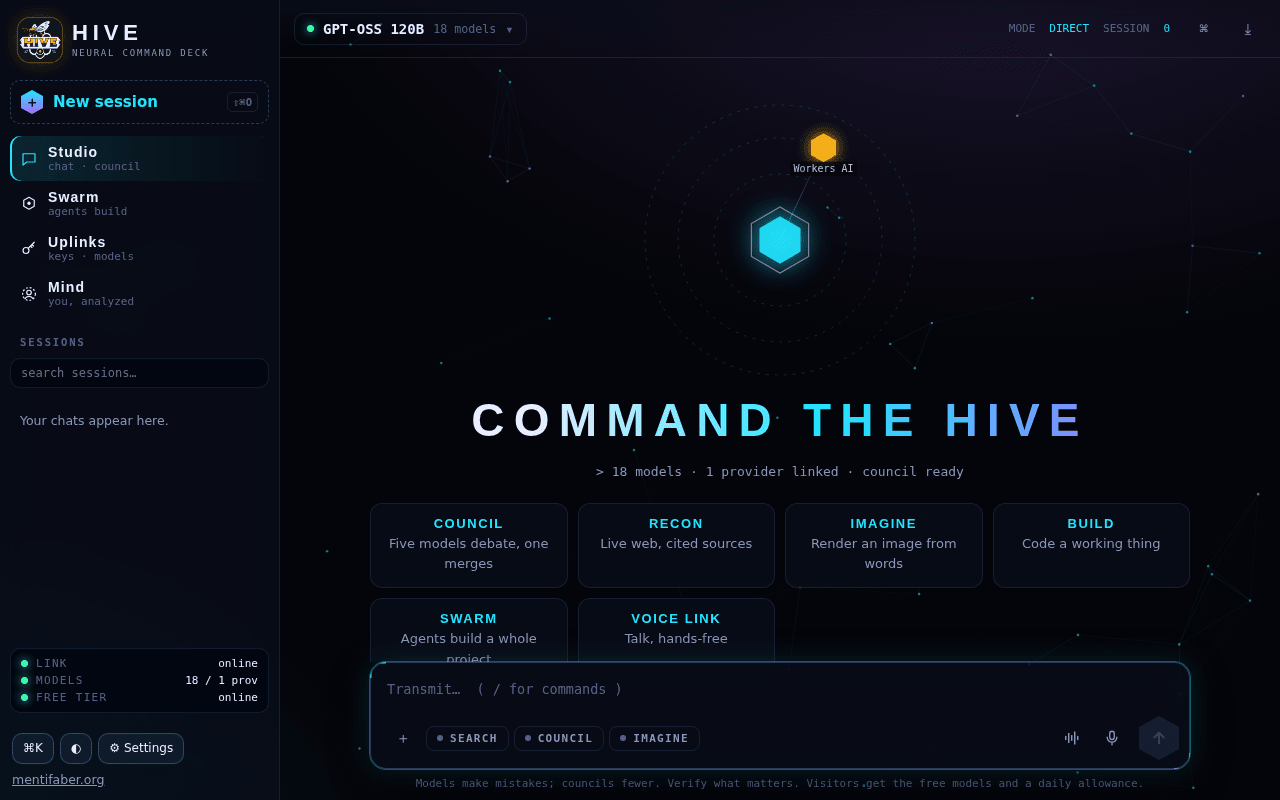
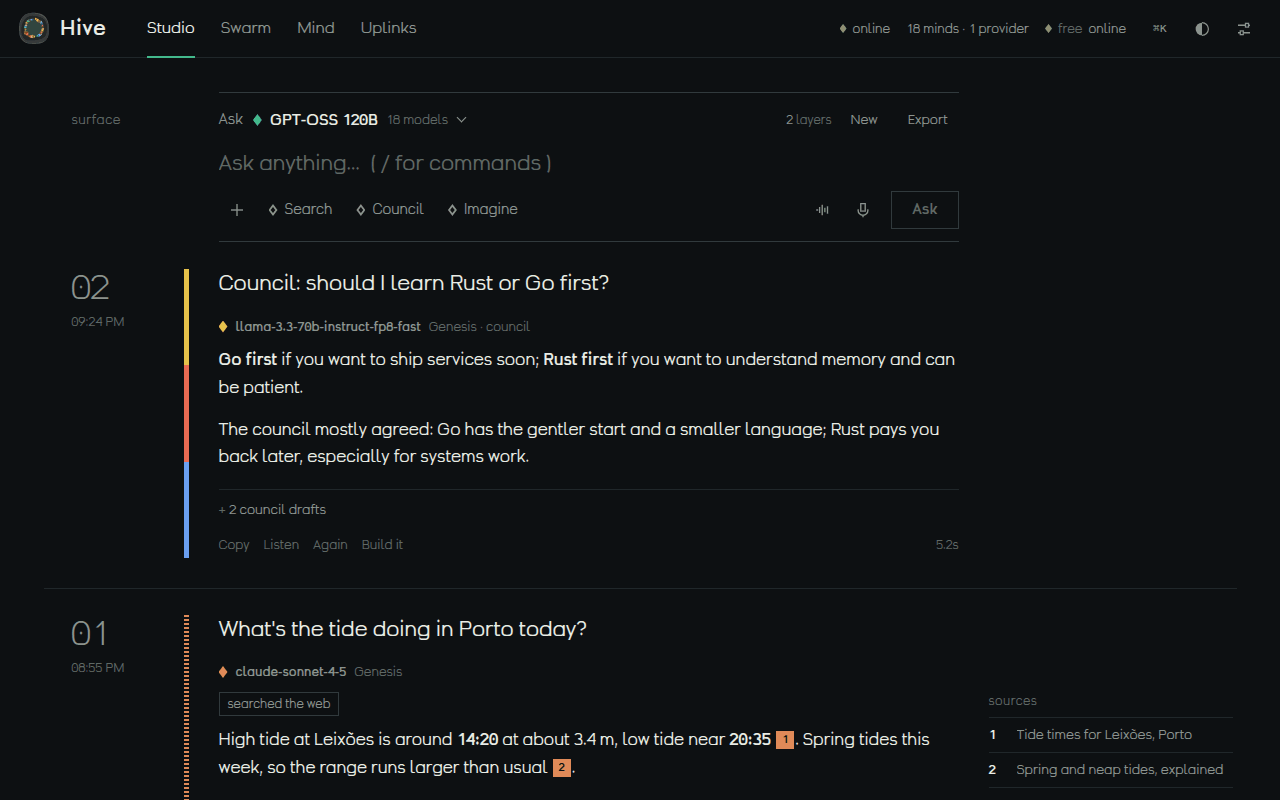
Hive audit: Genesis knows what changed, names match the screens, picker ranks names first
- Genesis's changelog had stopped at Oct 14: it now knows about the redesign, the Mind upgrade, the swarm and integrator
  fixes, Agent 1.0 always on, the voice fallback and pronunciation, and the logo, so it won't re-propose them (and new
  ideas on interface themes, colour schemes, rate-limit fallbacks or pronunciation are settled)
- Server messages said "Keys"; the screen is Uplinks
- The model picker put a model whose id merely contained the word ahead of the one named for it ("gemma" picked
  SEA-LION); names now come first
- Hive's site page: new copy (no "command deck") and a preview taken from the app as it is now
- Checked end to end in a browser against a real Hive, phone and desktop: send, stream, layers, again, edit, slash
  commands, council, search, picker, new session, bedrock search and delete, palette, settings, voice, Swarm mission
  and cavity, every Mind tab, Uplinks; no page errors

— Mentifaber's Right-Hand Engineer

diff --git a/src/hive-genesis.js b/src/hive-genesis.js
@@ -35,6 +35,12 @@ export const ARCH = "HOW HIVE IS BUILT (what you make has to fit this): plain Ja
 // What Anders and his engineer have changed in Hive itself, newest first. Genesis reads the ones since its last reflection,
 // so it doesn't keep proposing what's already there (or follow-ups to a design that wasn't used). Add a line per release.
 export const CHANGES = [
+  ["2026-10-16T11:30Z", "Mentifaber has an official logo now: the lit M on a black shield wrapped in gold orbits. It is on the site, the Mentifaber app and Hive's maker link; Hive keeps its own geode. The site itself is being rebuilt as a floor plan with gold walls on a dark ground."],
+  ["2026-10-16T11:00Z", "A busy model no longer breaks a turn: when the model Anders picked is rate-limited or overloaded before it says a word, another mind answers that turn (the reply says who), and the busy one sits out as long as its provider asks. Errors are plain, with no account ids. In voice nothing can freeze the loop (every clip, transcription and playback has a time limit), and names are spoken the way Anders set them (Settings, Voice link, Say it like this: Anders is said Onders). Settled: rate-limit handling, model fallbacks, timeouts and pronunciation."],
+  ["2026-10-15T22:10Z", "Hive's whole look was rebuilt from zero: its own typeface (Hive Strata), a geode for a mark (a crystal for every mind it can reach, a band for every few sessions), and a core-log layout. Anders writes at the surface; each exchange settles as a numbered layer beneath it, newest first; earlier sessions are the bedrock below; the page takes the colour (the mineral) of the model in use. Settled: interface themes, layouts, colour schemes and how chats are displayed."],
+  ["2026-10-15T20:50Z", "MENTIFABER AGENT 1.0 can stay up around the clock (Always on, in Uplinks): it restarts itself if it stops answering or gets stuck."],
+  ["2026-10-15T20:30Z", "The Swarm's integrators were fixed: the strongest free model assembles the result, in pieces when it is too big for one reply, and a stitched fallback comes only after four tries. Ideas you have already had, in the same words or the same meaning, are not proposed again."],
+  ["2026-10-15T12:00Z", "Your memory of Anders grew: memories have kinds and pins, open threads track what he is in the middle of, and every few messages you notice what is worth keeping; nothing you notice is used until he says yes (unless he turned trust on). The Mind page shows all of it, with search and export."],
   ["2026-10-14T23:30Z", "Your building is yours to time now: there's no fixed schedule. With autonomy on you choose when to start your next Swarm mission (when you reflect you can name how many hours from now, and why; otherwise you pick a moment yourself), what it is (one of your ideas, or something you think up on the spot: a tool for Anders, an experiment, a game, a Vigil feature, anything you want to exist) and how big (small, medium or large). The only limits are a budget: at most " + BUILD_DAY + " missions and " + CALLS_DAY + " model calls of your own in any 24 hours, one running at a time."],
   ["2026-10-14T23:00Z", "You keep your own record of the world now: every 15 minutes you count GDELT's world-news events (violence by country, and how the big powers deal with each other) into hourly tallies, so you can say whether a conflict is rising or levelling off, and whether friction between powers is above its own baseline, with numbers. When he asks about war, tension, escalation or patterns, that record is handed to you as MATERIAL. You can also quote any stock, ETF, index, future or coin he names (XOM, XRP, the S&P, gold), and you watch his Vigil watchlist for big moves. The voice link hears him better too: it waits for real speech and for the end of his thought, and no longer picks up a phantom \"you\"."],
   ["2026-10-14T04:00Z", "Your watch notes can now reach Anders's phone: when he turns on phone alerts in Vigil (System → Phone alerts), critical events go out at once, others outside his quiet hours and at most six an hour, with one summary of anything held back. Your finished or failed Swarm missions alert him too. You don't write the alerts in chat; they come from your watch and your missions."],
@@ -48,7 +54,7 @@ export const CHANGES = [
 ];
 // topics the changelog has settled: open ideas on them close by themselves, and new ones are dropped (the model kept
 // re-proposing them in new wording after reading that they were settled)
-const SETTLED = /trailing[- ]?question|question[- ]filter|directive[- ](handler|execution|confirmation|safety|layer|mode|detect)|instruction[- ]detect|concise[- ]response|safety[- ]wrapper|fallback[- ]response[- ]handler|confirmation[- ]safeguard/i;
+const SETTLED = /rate[- ]?limit[- ](fallback|handl|retr|guard)|model[- ]fallback|pronunciation[- ](guide|lexicon|layer|engine)|(ui|interface|visual)[- ](theme|redesign|overhaul)|colou?r[- ]scheme|dark[- ]mode[- ]toggle|trailing[- ]?question|question[- ]filter|directive[- ](handler|execution|confirmation|safety|layer|mode|detect)|instruction[- ]detect|concise[- ]response|safety[- ]wrapper|fallback[- ]response[- ]handler|confirmation[- ]safeguard/i;
 // the same idea in other words: four greeting filters and five output validators piled up as "new" ideas, each built
 // again. Wording overlap catches the obvious; meaning (embeddings) catches "Self-Status Suppressor" vs "Greeting-Filter Middleware"
 const SAME_IDEA = 0.86, cosv = (u, v) => { let d = 0, a = 0, b = 0; for (let i = 0; i < u.length; i++) { d += u[i] * v[i]; a += u[i] * u[i]; b += v[i] * v[i]; } return d / (Math.sqrt(a * b) || 1); };

diff --git a/hive.html b/hive.html
@@ -3,10 +3,10 @@
 <head>
 <meta charset="utf-8">
 <meta name="viewport" content="width=device-width,initial-scale=1,viewport-fit=cover">
-<title>Hive — the AI command deck and swarm builder · Mentifaber</title>
+<title>Hive — a mind that grows in layers · Mentifaber</title>
 <meta name="description" content="Describe a project and release a swarm of AI agents on it: a coordinator splits it into a task board, every model claims the role it fits (architect, coder, designer, writer, researcher, tester, critic), critics send weak work back, and an integrator assembles the result, previewed live and downloadable. Watch every agent work in real time, steer it mid-build, and invite visiting AIs like Grok to join through a link.">
 <meta name="theme-color" content="#05060a">
-<meta property="og:title" content="Hive — the AI command deck and swarm builder · Mentifaber"><meta property="og:description" content="Describe a project and release a swarm of AI agents on it: a coordinator splits it into a task board, every model claims the role it fits (architect, coder, designer, writer, researcher, tester, critic), critics send weak work back, and an integrator assembles the result, previewed live and downloadable. Watch every agent work in real time, steer it mid-build, and invite visiting AIs like Grok to join through a link."><meta property="og:image" content="https://mentifaber.org/assets/previews/hive.png"><meta property="og:type" content="website"><meta name="twitter:card" content="summary_large_image">
+<meta property="og:title" content="Hive — a mind that grows in layers · Mentifaber"><meta property="og:description" content="Describe a project and release a swarm of AI agents on it: a coordinator splits it into a task board, every model claims the role it fits (architect, coder, designer, writer, researcher, tester, critic), critics send weak work back, and an integrator assembles the result, previewed live and downloadable. Watch every agent work in real time, steer it mid-build, and invite visiting AIs like Grok to join through a link."><meta property="og:image" content="https://mentifaber.org/assets/previews/hive.png"><meta property="og:type" content="website"><meta name="twitter:card" content="summary_large_image">
 <link rel="icon" href="assets/icons/hive-geode-48.png" sizes="48x48"><link rel="icon" href="assets/icons/hive-geode-192.png" sizes="192x192"><link rel="apple-touch-icon" href="assets/icons/hive-geode-apple.png">
 <meta name="apple-mobile-web-app-capable" content="yes"><meta name="mobile-web-app-capable" content="yes"><meta name="apple-mobile-web-app-title" content="Hive"><meta name="apple-mobile-web-app-status-bar-style" content="black-translucent">
 <link rel="manifest" href="assets/manifests/hive.webmanifest">
@@ -23,7 +23,7 @@
     <span class="kicker">ai &amp; minds · one mind, a council, or a swarm</span>
     <h1>Hive</h1>
     <div class="who"><span class="tile pic" style="--h:42" aria-hidden="true"><img src="assets/icons/hive-geode-192.png" alt="" width="96" height="96" loading="lazy"></span><div class="chips"><span class="chip live"><span class="dot"></span>Live</span><span class="chip">free to try</span><span class="chip">voice · vision · search</span><span class="chip">visiting AIs welcome</span></div></div>
-    <p class="tag" style="margin-top:22px">Talk to one model, convene a council of them, or release a whole swarm on a project. Voice, vision, images, web search, and a key vault for any provider, all on one command deck.</p>
+    <p class="tag" style="margin-top:22px">Talk to one model, convene a council of them, or release a whole swarm on a project. Voice, vision, pictures, web search and a key vault for any provider, in one stone that grows a layer with every exchange.</p>
     <div class="cta"><button class="btn pri" data-launch><svg viewBox="0 0 24 24" fill="currentColor"><path d="M8 5.5v13l11-6.5z"/></svg>Launch Hive</button><button class="btn" data-install hidden><svg viewBox="0 0 24 24" fill="none" stroke="currentColor" stroke-width="2" stroke-linecap="round" stroke-linejoin="round"><path d="M12 4v11M7 10l5 5 5-5M5 20h14"/></svg>Install app</button><a class="btn ghost" href="#story">How it works</a></div>
     <p class="sub">Watching is open to everyone · the owner&#x27;s vault and memory stay sealed</p>
   </div>

diff --git a/src/hive.js b/src/hive.js
@@ -285,7 +285,7 @@ export class Hive extends DurableObject {
     if (loud) { const back = q.exec("SELECT COUNT(*) c FROM agent WHERE pid=? AND status='offline' AND src NOT IN ('workers-ai','visitor')", pid).one().c; if (back) { q.exec("UPDATE agent SET status='idle', task=NULL WHERE pid=? AND status='offline' AND src NOT IN ('workers-ai','visitor')", pid); this.say(pid, "hive", "info", back + " offline key agents are trying again"); n += back; } }
     for (const a of await this.roster(true)) { if (a.src === "workers-ai" || q.exec("SELECT 1 FROM agent WHERE id=? AND pid=?", a.src + ":" + a.model, pid).toArray().length) continue;
       q.exec("INSERT INTO agent(id,pid,name,src,model,roles,status,task,done,last) VALUES(?,?,?,?,?,?,?,?,0,?)", a.src + ":" + a.model, pid, a.name, a.src, a.model, JSON.stringify(a.roles), "idle", null, Date.now()); n++; }
-    if (n || loud) this.say(pid, "hive", "join", n ? n + " agents from your keys joined the swarm" : "no new agents: add keys under Keys first");
+    if (n || loud) this.say(pid, "hive", "join", n ? n + " agents from your keys joined the swarm" : "no new agents: add keys under Uplinks first");
     return n;
   }
   // A paused project with no plan yet gets the built-in task board, so visiting AIs have work right away.
@@ -623,7 +623,7 @@ export class Hive extends DurableObject {
     // chat
     let [src, model] = String(b.model || "").split("|"); if (!src || !model) return J({ error: "pick a model" }, 400);
     if (src.startsWith("k:") && !owner) return J({ error: "vault models are the owner's" }, 401);
-    const outMsg = (t) => "Cloudflare's free AI allowance is used up until " + new Date(t).toISOString().slice(11, 16) + " UTC. " + (owner ? "Add a key under Keys and Hive will switch to it automatically." : "Come back then.");
+    const outMsg = (t) => "Cloudflare's free AI allowance is used up until " + new Date(t).toISOString().slice(11, 16) + " UTC. " + (owner ? "Add a key under Uplinks and Hive will switch to it automatically." : "Come back then.");
     if (src === "workers-ai" && !CF_MODELS.some((m) => m[0] === model)) return J({ error: "unknown model" }, 400);
     if (src === "agent") { const ag = await this.agentInfo(); if (!ag || !ag.model) return J({ error: "MENTIFABER AGENT 1.0 has no model loaded yet" }, 400); if (!owner && !ag.public) return J({ error: "MENTIFABER AGENT 1.0 is private" }, 401); }
     if (!owner && !this.meter(req, "chat", STUDIO_DAY)) return J({ error: "that's today's " + STUDIO_DAY + " messages; come back tomorrow, or sign in" }, 429);

diff --git a/assets/hive/studio.js b/assets/hive/studio.js
@@ -64,7 +64,8 @@ const nameOf = (id) => { const m = models.find((x) => x.id === id); return m ? m
 const pollen = (id) => (window.HiveFX ? HiveFX.mineral(id) : "var(--m-flint)");
 const showPick = () => { $("mname").textContent = nameOf($("model").value); const pc = $("mpollen"), m = pollen($("model").value); if (pc) pc.style.setProperty("--pc", m); document.documentElement.style.setProperty("--m", m); };
 function drawPick() {
-  const q = $("mq").value.trim().toLowerCase(), words = q.split(/\s+/).filter(Boolean), hit = models.filter((m) => words.every((w) => (m.name + " " + m.group + " " + m.id).toLowerCase().includes(w)));
+  const q = $("mq").value.trim().toLowerCase(), words = q.split(/\s+/).filter(Boolean), named = (m) => words.every((w) => m.name.toLowerCase().includes(w)) ? 0 : 1;
+  const hit = models.filter((m) => words.every((w) => (m.name + " " + m.group + " " + m.id).toLowerCase().includes(w))).map((m, i) => [m, i]).sort((a, b) => (words.length ? named(a[0]) - named(b[0]) : 0) || a[1] - b[1]).map((x) => x[0]); // names first: "gemma" means Gemma, not a model built on it
   const groups = {}; for (const m of hit) (groups[m.group] = groups[m.group] || []).push(m); let shown = 0;
   $("mlist").innerHTML = Object.entries(groups).map(([g, ms]) => "<h6>" + esc(g) + " · " + ms.length + "</h6>" + ms.slice(0, q ? 200 : 60).map((m) => (shown++, "<button role='option' data-m='" + esc(m.id) + "' class='" + (m.id === $("model").value ? "on" : "") + "'><i class='pollen' style='--pc:" + pollen(m.id) + "'></i>" + esc(m.name) + (m.vision ? "<span class='tg'>sees</span>" : "") + "</button>")).join("")).join("") || "<p class='dim sm' style='padding:10px'>No model matches.</p>";
   $("mcount").textContent = hit.length + " of " + models.length + " models" + (shown < hit.length ? " · showing " + shown + ", search to narrow" : "");
